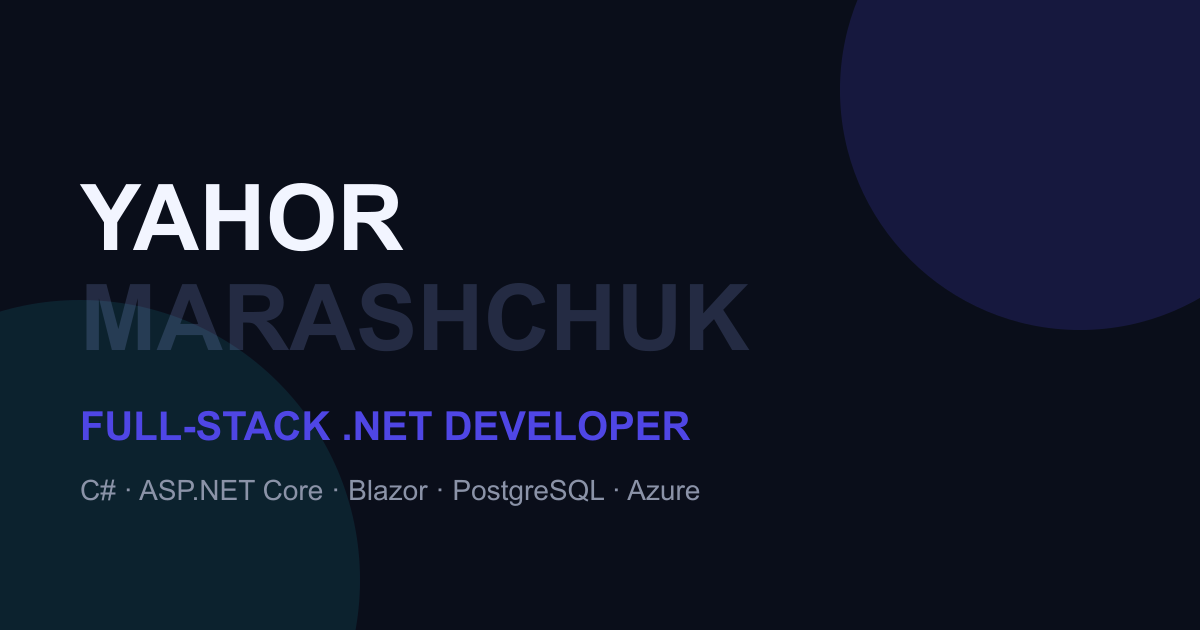
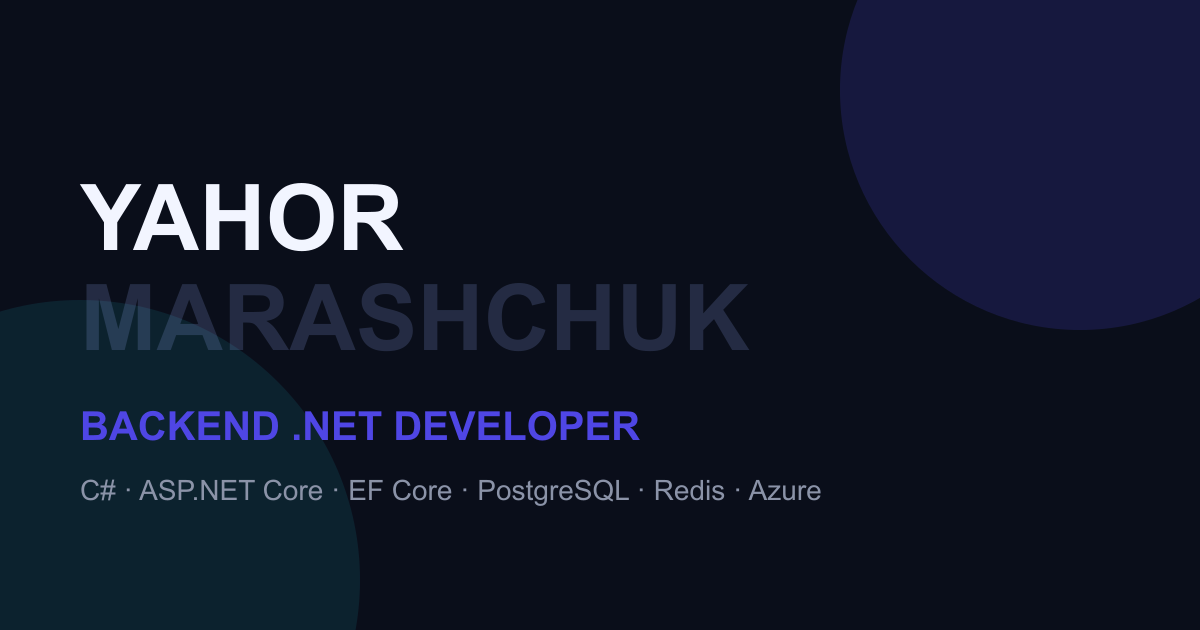
Refresh portfolio from LinkedIn profile

Changed region(s): [[0.0617, 0.6333, 0.5858, 0.7238], [0.2775, 0.754, 0.6783, 0.8143]]

diff --git a/src/lib/content.ts b/src/lib/content.ts
@@ -10,7 +10,7 @@ export const navItems: NavItem[] = [
 
 export const profile = {
   name: "Yahor Marashchuk",
-  bio: "Full-Stack .NET Developer with 4+ years shipping multi-tenant SaaS used by 300+ studios across Europe.",
+  bio: "Backend .NET Developer with 4+ years building production SaaS for 300+ studios across Europe.",
   photo: "/images/yahor-profile-indigo-v3.webp",
 };
 
@@ -24,10 +24,10 @@ export const profileSocials: SocialLink[] = [
 ];
 
 export const hero = {
-  titleSolid: "FULLSTACK",
+  titleSolid: "BACKEND",
   titleGhost: "DEVELOPER",
   intro:
-    "I build multi-tenant SaaS on C#, ASP.NET Core, Blazor & Azure — and I ship measurable impact: −40% backend latency, −62% cloud costs, ~75% less manual work through automation.",
+    "I build multi-tenant .NET SaaS backends for payments, German compliance, and production traffic — with measured results: −40% response time, +35% throughput, −62% compute cost.",
 };
 
 export const stats: Stat[] = [
@@ -46,10 +46,10 @@ export const heroCards = [
   },
   {
     eyebrow: "Core stack",
-    title: ".NET · Blazor",
+    title: ".NET · ASP.NET Core",
     icon: "stack",
     href: "#tools",
-    tags: ["PostgreSQL", "Azure"],
+    tags: ["PostgreSQL", "Redis"],
   },
   {
     eyebrow: "Driving license",
@@ -70,13 +70,13 @@ export const heroCards = [
 export const projects: Project[] = [
   {
     title: "Fitness Studio SaaS",
-    subtitle: "300+ tenants, thousands of users across Germany, Austria & Poland",
+    subtitle: "300+ studios and 2,000-5,000 active users across Germany, Austria & Poland",
     href: "#projects",
     image: "/images/project-fitness-saas.png",
   },
   {
     title: "SEPA Billing & POS",
-    subtitle: "Direct-debit automation & fiscalization — ~75% less manual back-office work",
+    subtitle: "SEPA pain.008, PSD2 banking & KassenSichV-compliant POS workflows",
     href: "#projects",
     image: "/images/project-sepa-pos.png",
   },
@@ -92,24 +92,26 @@ export const jobs: Job[] = [
   {
     company: "Themisoft GmbH",
     description:
-      "Full-Stack .NET Developer on a 10-project ABP platform with 6,800+ C# files, 1,100+ application services, and 580+ EF Core migrations. The SaaS supports 300+ fitness studios and thousands of active users across Germany, Austria, and Poland.",
+      "Backend Developer (.NET) / Full-Stack on an ABP-based multi-tenant SaaS used by 300+ fitness studios and 2,000-5,000 active users across Germany, Austria, and Poland.",
     highlights: [
-      "Own end-to-end delivery across contracts, memberships, SEPA direct debit, payments, Fiskaly POS fiscalization, bookings, campaigns, communications, and studio administration.",
-      "Built subdomain-based multi-tenancy, tenant-aware entities, OpenIddict/OIDC flows, JWT issuer validation, and permission-based access; integrated FinAPI, SEPA, Fiskaly, eBrief, and MailKit.",
-      "Cut backend response time 40% and increased throughput 35% through EF Core/PostgreSQL optimization; reduced cloud costs ~62% with Redis and Hangfire, and reduced manual work ~75% through Tesseract OCR and document automation.",
-      "Maintain 300+ xUnit tests, review pull requests, support production issues, and helped onboard two developers.",
+      "Designed and shipped backend modules for contracts, memberships, SEPA direct debit, payments, POS/accounting, bookings, campaigns, communications, and studio administration.",
+      "Implemented subdomain tenant resolution, tenant-aware entities and filters, permission-based authorization, OpenIddict/OIDC, JWT, and cookie/bearer authentication.",
+      "Integrated FinAPI/PSD2, SEPA pain.008, Fiskaly TSE for KassenSichV/GoBD-compliant receipts, eBrief, and MailKit with secure tokens, callback validation, idempotency, and retry/backoff policies.",
+      "Improved response time 40% and throughput 35% through EF Core/PostgreSQL optimization; cut background-processing compute cost ~62% with Redis locks, Hangfire consolidation, and queue partitioning.",
+      "Built OCR and document-scanning workflows that reduced manual back-office work ~75%; handled incidents, hotfixes, data-integrity checks, tests, code reviews, and onboarding for two developers.",
     ],
-    stack: ["C#", ".NET 10", "ASP.NET Core", "ABP", "Blazor", "PostgreSQL", "Redis", "Hangfire", "SignalR", "Azure"],
-    period: "Dec 2023 - Present",
+    stack: ["C#", ".NET 8/9", "ASP.NET Core", "ABP", "EF Core", "PostgreSQL", "Redis", "Hangfire", "SignalR", "Azure"],
+    period: "Dec 2023 - Aug 2026",
   },
   {
     company: "EPAM Systems",
     description:
       "Junior .NET Backend Developer on a microservice-based B2B e-commerce platform for a European industrial-equipment distributor, supporting corporate ordering, dynamic pricing, catalog search, inventory, checkout, and order processing.",
     highlights: [
-      "Developed REST APIs and backend workflows for Catalog Service, Pricing Engine, Inventory Background Worker, cart, checkout, and order processing using MediatR/CQRS and RabbitMQ.",
+      "Developed REST APIs and backend workflows for Catalog Service, Pricing Engine, Inventory Background Worker, cart, checkout, order processing, and inventory synchronization.",
+      "Owned a high-load pricing endpoint used on every cart update and catalog search with filtering, pagination, and aggregations.",
       "Moved heavy catalog filtering from EF Core SQL to Elasticsearch with Redis caching, reducing average search latency from 1.5-2 seconds to ~150 ms and PostgreSQL CPU load by 40%.",
-      "Resolved inventory race conditions and malformed XML/JSON supplier feeds using Kibana logs; added unit and integration coverage with xUnit, Moq, AutoFixture, and Bogus.",
+      "Diagnosed an inventory-deduction race condition and malformed XML/JSON supplier feeds through Kibana; added unit and integration coverage with xUnit, Moq, AutoFixture, and Bogus.",
       "Delivered in Dockerized Azure DevOps CI/CD with AKS and Helm as part of a cross-functional Scrum team.",
     ],
     stack: ["C#", "ASP.NET Core", "EF Core", "PostgreSQL", "CQRS", "RabbitMQ", "Redis", "Elasticsearch", "Docker", "AKS"],
@@ -134,22 +136,28 @@ export const tools: Tool[] = [
 
 export const articles: Article[] = [
   {
-    title: "Inside a 300-Tenant SaaS: Lessons from 6,800+ C# Files",
+    title: "Building Backends for 300+ SaaS Tenants",
     excerpt:
-      "A 10-project modular monolith with 1,100+ application services and 580+ EF Core migrations only stays maintainable through strict boundaries, tenant-aware domain rules, disciplined migrations, and tests that protect business-critical workflows.",
-    meta: "Architecture · Production",
+      "Subdomain tenant resolution, tenant-aware entities and global filters, permission-based access, and issuer validation must work together so every request reaches the right studio and the right data.",
+    meta: "Multi-Tenancy · Production",
   },
   {
-    title: "Cutting Cloud Costs 62% with Redis & Hangfire",
+    title: "Reliable SEPA, PSD2 & German POS Integrations",
     excerpt:
-      "Redis-backed caching and distributed locks, combined with consolidated Hangfire workloads and better query shaping, improved throughput by 35% while helping reduce measured cloud infrastructure costs by approximately 62%.",
-    meta: "Performance · Production",
+      "Payment and compliance integrations need more than a successful HTTP call: secure token handling, callback signatures, idempotency keys, retry policies, auditability, and careful handling of financial data.",
+    meta: "Payments · Compliance",
   },
   {
-    title: "From Paperwork to Workflow: OCR in Production",
+    title: "40% Faster EF Core & PostgreSQL Workloads",
     excerpt:
-      "Tesseract OCR, barcode and webcam capture, and PDF processing turned repetitive document handling into a reliable workflow. The result was about 75% less manual back-office work without removing human review where it matters.",
-    meta: "Automation · Production",
+      "Covering indexes, projections, split queries, N+1 elimination, and EXPLAIN ANALYZE-driven query shaping reduced measured response time by 40% and increased throughput by 35%.",
+    meta: "Data · Performance",
+  },
+  {
+    title: "Cutting Background Compute Cost by 62%",
+    excerpt:
+      "Redis distributed locking, Hangfire job consolidation, and queue partitioning reduced duplicate work and helped cut compute cost for the background-processing workload by approximately 62%.",
+    meta: "Distributed Systems · Production",
   },
   {
     title: "From 2 Seconds to 150ms: Search Done Right",
@@ -158,15 +166,9 @@ export const articles: Article[] = [
     meta: "Search · Production",
   },
   {
-    title: "Why C# 14 Extension Members Matter",
+    title: "Deepening Observability & AI in .NET",
     excerpt:
-      "Extension blocks in .NET 10 go beyond familiar extension methods: they can group behavior and expose extension properties, helping APIs read more naturally while keeping reusable operations organized around the types they extend.",
-    meta: ".NET 10 · LinkedIn",
-  },
-  {
-    title: "Practical AI Skills Over Flashy Demos",
-    excerpt:
-      "The AI tools worth keeping are the ones that improve everyday engineering: clearer reasoning, more predictable output, stronger discipline, and lower token usage. Practicality and repeatability matter more than a one-off impressive demo.",
-    meta: "AI Tooling · LinkedIn",
+      "Currently exploring .NET Aspire and OpenTelemetry for observable distributed systems, plus Semantic Kernel, Azure OpenAI, and pgvector-backed RAG for practical LLM integration in .NET applications.",
+    meta: "Currently Learning",
   },
 ];

diff --git a/src/app/layout.tsx b/src/app/layout.tsx
@@ -16,14 +16,17 @@ const satoshi = localFont({
 });
 
 export const metadata: Metadata = {
-  title: "Yahor Marashchuk — Full-Stack .NET Developer",
+  metadataBase: new URL("https://yahor-marashchuk.vercel.app"),
+  title: "Yahor Marashchuk — Backend .NET Developer",
   description:
-    "Full-Stack .NET Developer building multi-tenant SaaS and enterprise web applications with C#, ASP.NET Core, Blazor, and Azure.",
+    "Backend .NET Developer building multi-tenant SaaS with C#, ASP.NET Core, EF Core, PostgreSQL, Redis, Docker, and Azure.",
   icons: { icon: "/seo/favicon.png" },
+  alternates: { canonical: "/" },
   openGraph: {
-    title: "Yahor Marashchuk — Full-Stack .NET Developer",
+    url: "/",
+    title: "Yahor Marashchuk — Backend .NET Developer",
     description:
-      "Full-Stack .NET Developer building multi-tenant SaaS and enterprise web applications with C#, ASP.NET Core, Blazor, and Azure.",
+      "Backend .NET Developer building multi-tenant SaaS with C#, ASP.NET Core, EF Core, PostgreSQL, Redis, Docker, and Azure.",
     images: ["/seo/og-image.png"],
   },
 };
